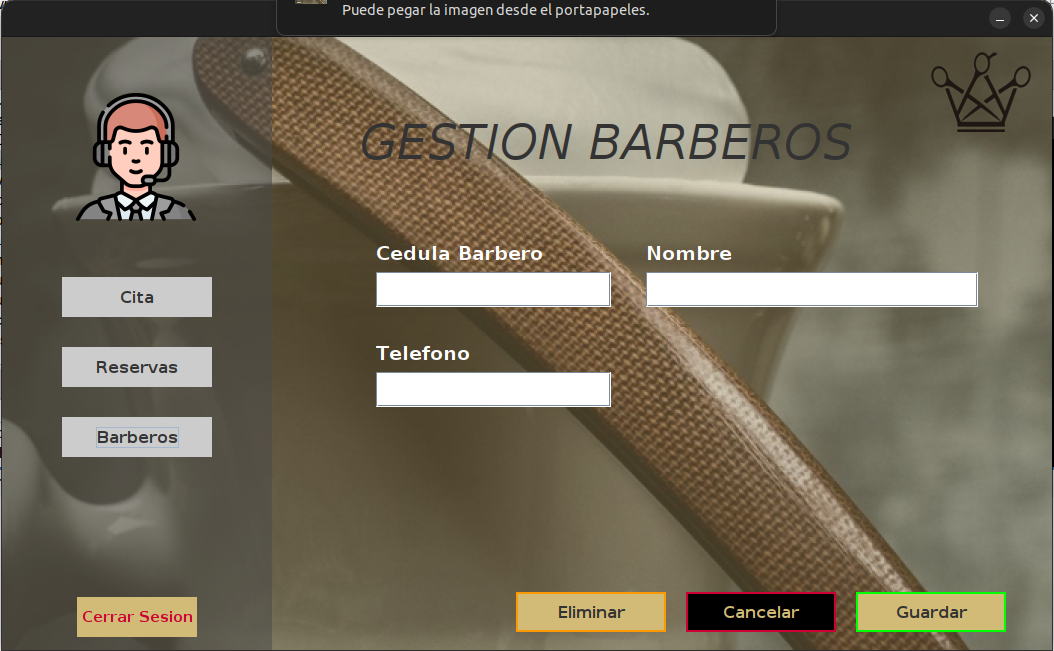
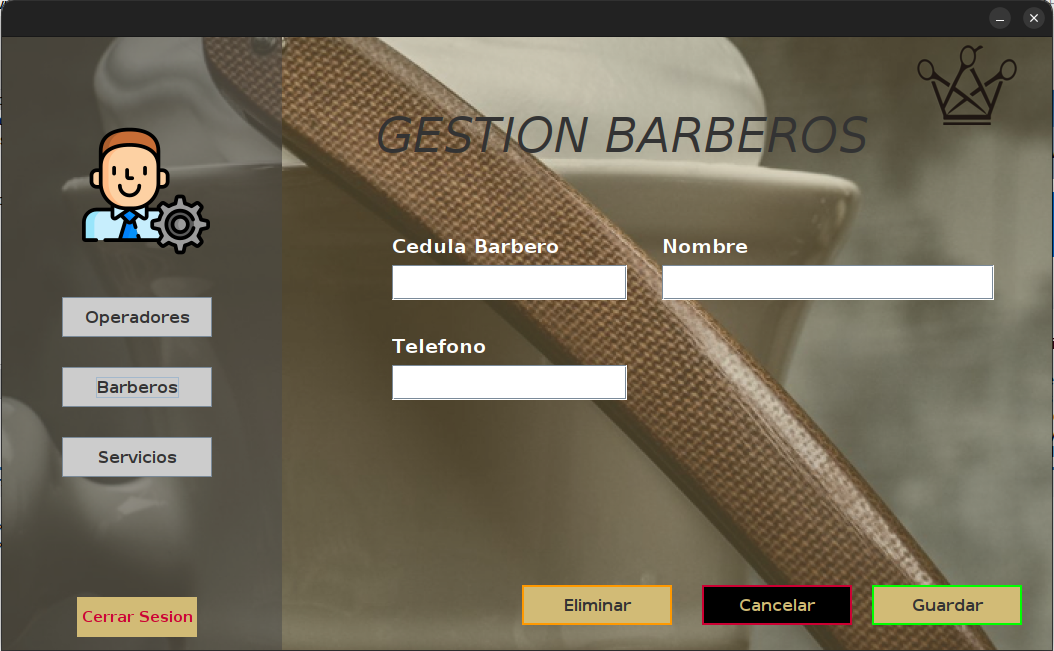
finished

Changed region(s): [[0.0, 0.0, 0.9715, 1.0], [0.8501, 0.0614, 1.0, 0.2765], [0.2429, 0.9831, 0.2732, 1.0]]

diff --git a/README.md b/README.md
@@ -1,29 +1,43 @@
-# KingsBarbershop
+# KingsBarbershop   ¡Tu Estilo, Tu Reino!
 
 **KingsBarbershop** es una aplicación de escritorio desarrollada en Java que facilita la gestión de una barbería. Con esta herramienta, puedes organizar a tus empleados, clientes, citas y reservas, proporcionando el orden necesario para tu negocio de barbería.
 
 ## ¿Cómo funciona?
 
 ### LogIn
-Accede predeterminadamente con usuario: **codigoc13** y contraseña: **1234**, luego podrás crear un operador, que será tu nueva cuenta a partir de ese momento.
+tene mos dos perfiles de ingreso
+1. Administrador (usuario y contraseña predeterminado)
+2. Operador (cuenta creada por el administrador)
 
 ![LogIn](loginkings.png)
 
-### Crear Cita
+### Login Administrador
+usted podra ingresar como administrador para gestionar servicios, barberos y operadores (empleados que administran la app)
+- Crea un operador en la ventana **Operadores** ingresando su informacion y presionando el boton **Guardar**. Eliminalos ingresando la informacion y presionando **Eliminar**
 
-En la ventana **Citas** podrás crear un nuevo cliente. Solo ingresa la información del nuevo cliente y presiona el botón **Guardar**. ¡Así de sencillo!
+![operadores](crearOperador.png)
 
-![Crear cita](crearcitas.png)
-
-### Crear Barbero
-
-En la ventana **Barberos** podrás crear un nuevo barbero ingresando la información y presionando **Guardar**, o ingresa la cédula de un barbero existente y elimínalo con el botón **Eliminar**.
+- En la ventana **Barberos** podrás crear un nuevo barbero ingresando la información y presionando **Guardar**, o ingresa la cédula de un barbero existente y elimínalo con el botón **Eliminar**.
 
 ![Gestión de barberos](gestionbarberos.png)
+
+- Crea un servicio en la ventana **Servicios**, ingresa la informacion y presiona **Guardar**.Eliminalos ingresando la informacion y presionando **Eliminar**
+
+![servicios](servicios.png)
+
+### Login Administrador
+podras administrar la app de forma funcional (solo funcionalidades de agendar y administrar barberos), permitiendote: 
+
+### Crear Cita
+
+En la ventana **Citas** podrás crear una nueva cita . Solo ingresa la información del nuevo cliente, la informacion de la cita y presiona el botón **Guardar**. ¡Así de sencillo!
+
+![Crear cita](crearcitas.png)
 
 ### Ver Reservas
 
 En la ventana **Reservas** podrás ver cada una de las citas agendadas con su respectiva información.
+(t = reserva activa, f= reserva inactiva)
 
 ![Reservas](reservas.png)
 
@@ -37,6 +51,16 @@ En la ventana **Reservas** podrás ver cada una de las citas agendadas con su re
 ## Base de datos
 
 Todo el manejo de datos se hace usando el sistema o motor de bases de datos relacional **PostgreSQL**, donde te garantizamos una buena seguridad y respaldo de toda la información.
+
+Tablas: 
+- barbers
+- clients
+- reservations
+- users
+- services
+
+Estas tablas se usan de manera Relacional, para un mejor tratamiento de datos y sobre todo, garantizar la persistencia de datos.
+
 
 ## Uso
 
